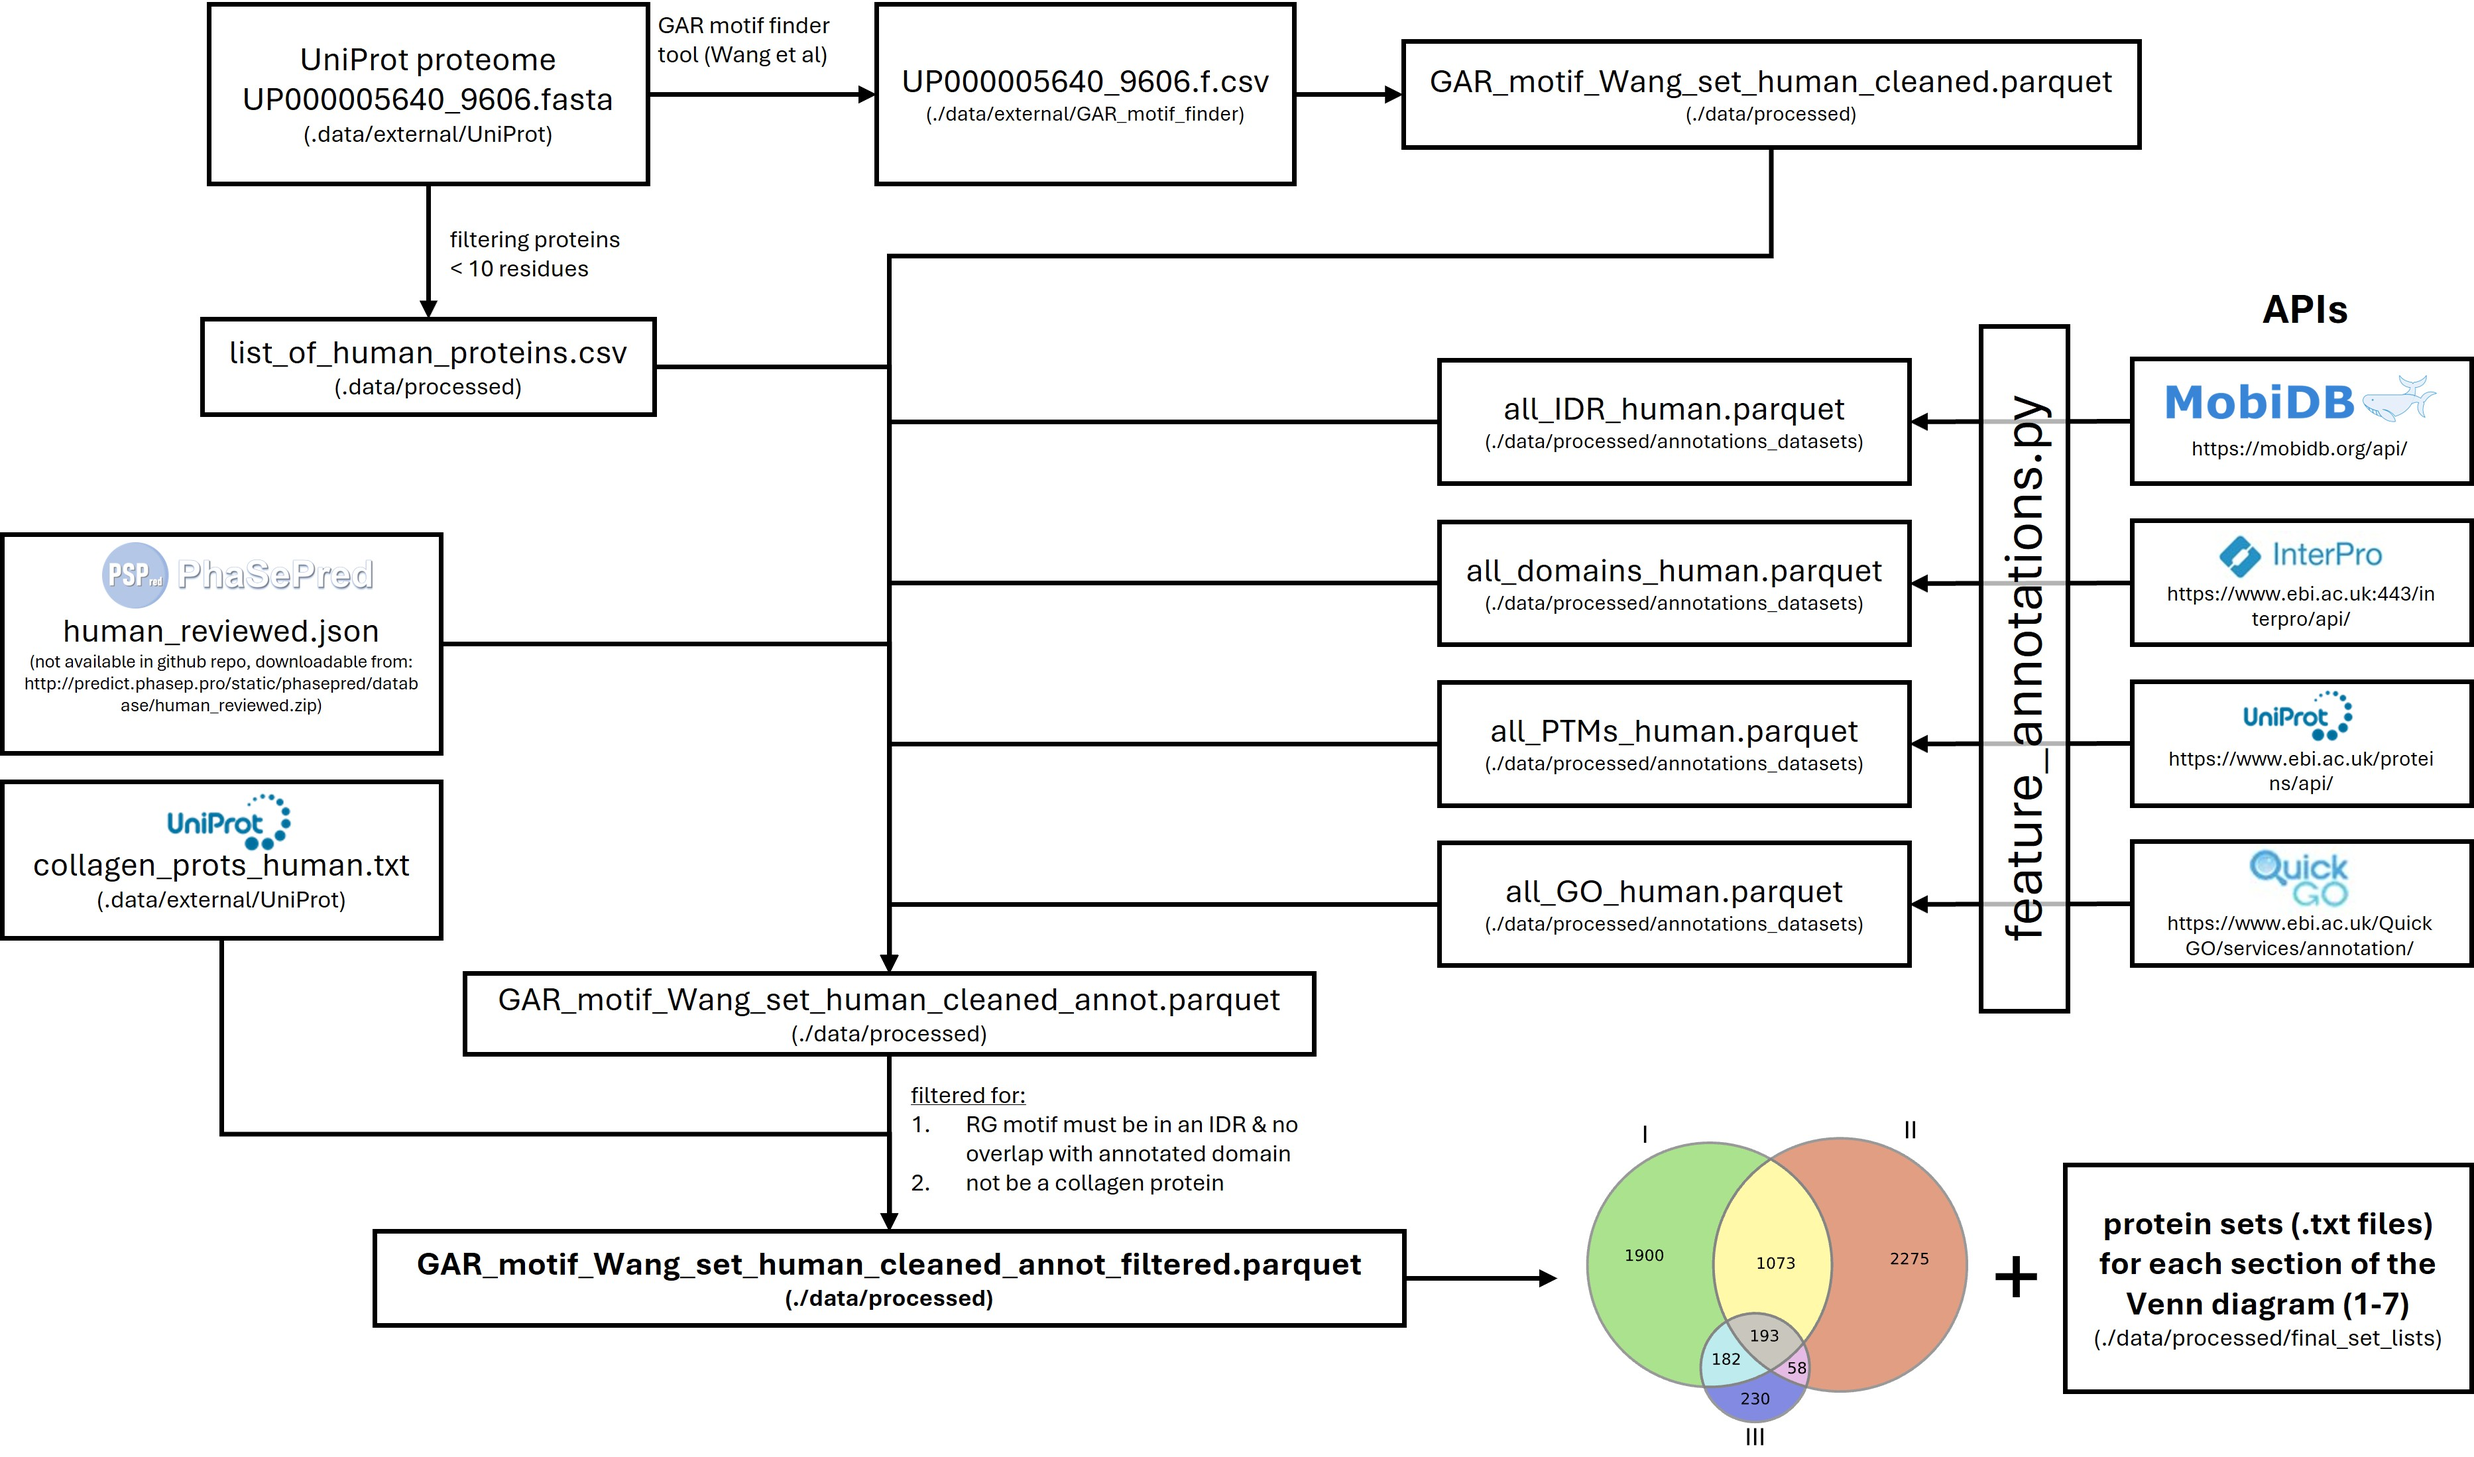
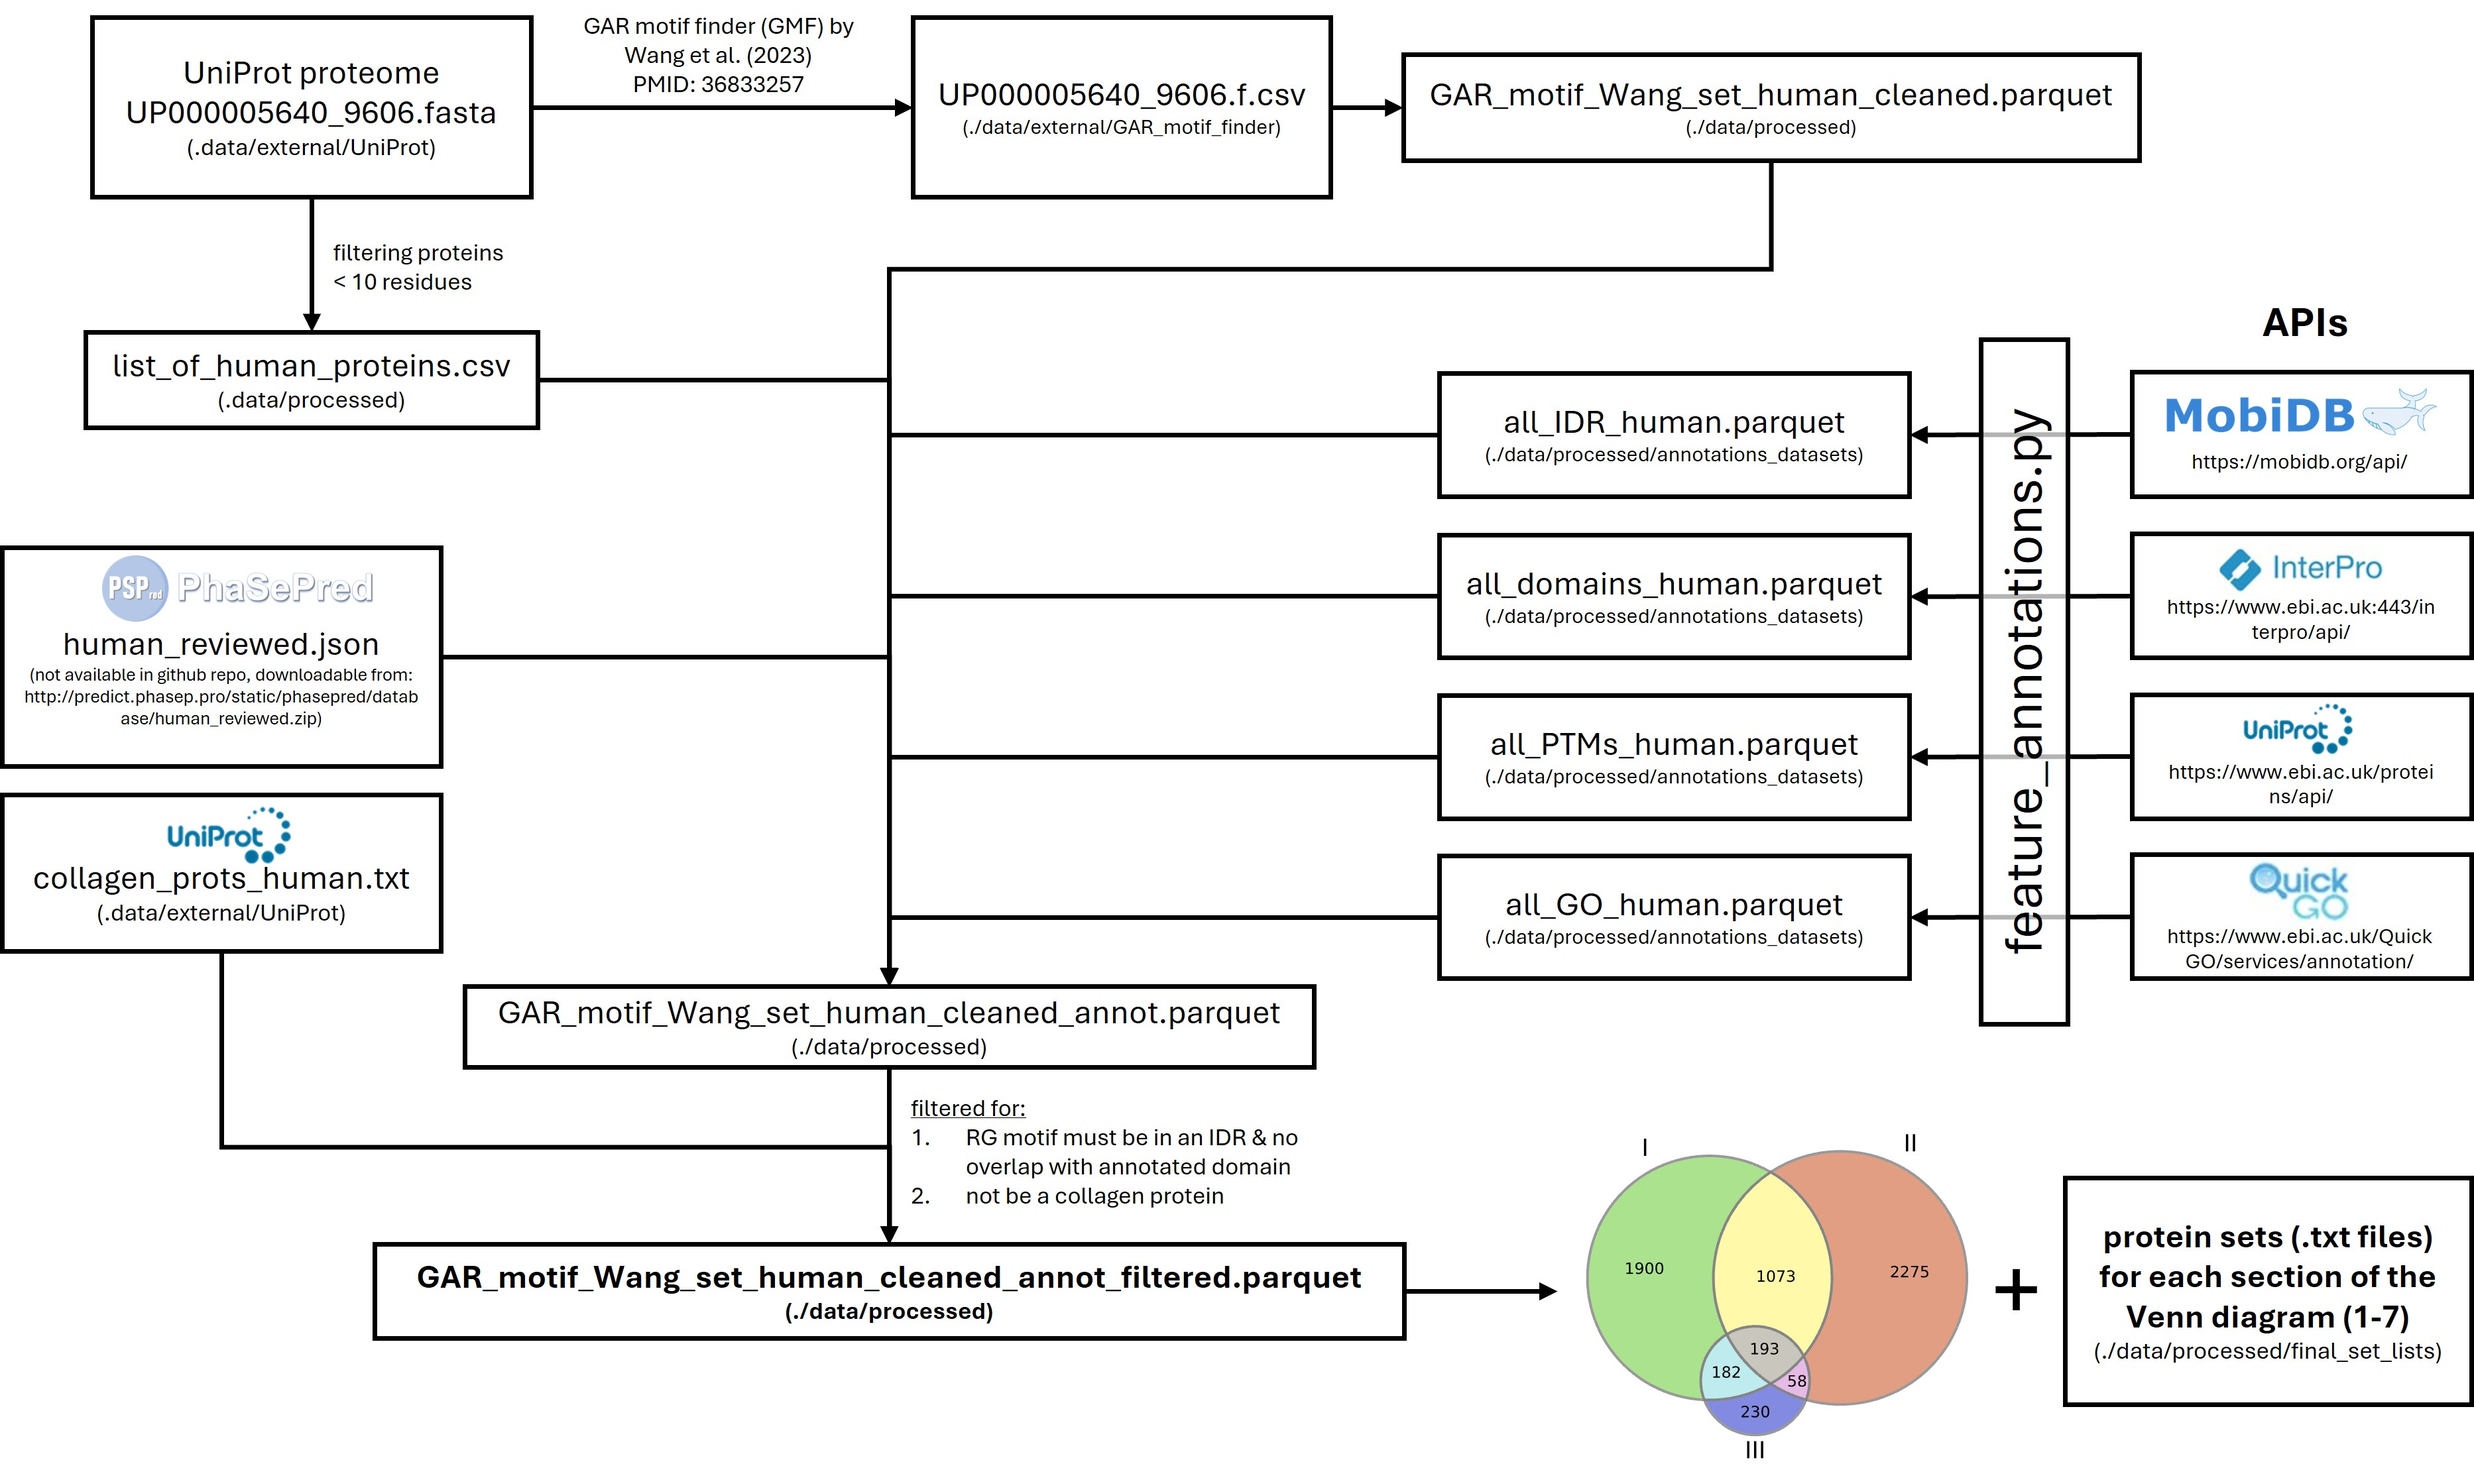
fix reference notation

diff --git a/README.md b/README.md
@@ -30,6 +30,9 @@ INFORMATION WILL BE ADDED AFTER REVIEW
 ```
 ## Data Flow
 
+The following diagram shows the data acquisition, processing and organization required for the project and required as prerequisites for running the analysis scripts.
+This summarizes the work done in `0_preprocessing_of_proteome.ipynb`.
+
 ![Dataflow Diagram](docs/data_flow_preprocessing.jpg)
 
 ## Requirements and Installation
